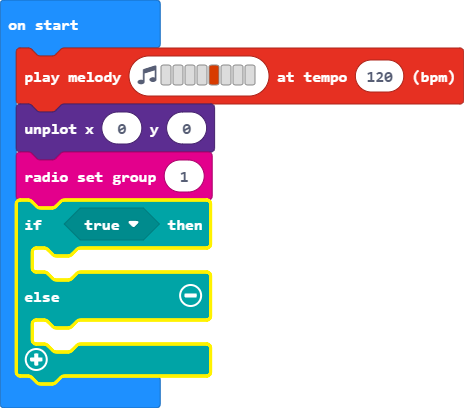
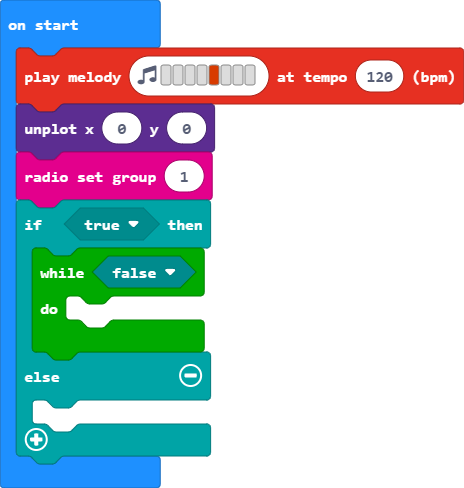
Update main.blocks, main.ts

diff --git a/main.ts b/main.ts
@@ -2,7 +2,9 @@ music.playMelody("- - - - B - - - ", 120)
 led.unplot(0, 0)
 radio.setGroup(1)
 if (true) {
-	
+    while (false) {
+    	
+    }
 } else {
 	
 }
